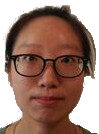
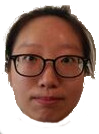
New user images

Changed region(s): [[0.0, 0.8358, 1.0, 1.0]]

diff --git a/js/facialPoints.js b/js/facialPoints.js
@@ -24,6 +24,9 @@ Motivate.prototype.createScene = function() {
 
     this.playing = false;
 
+    //Set camera
+    this.camera.position.set(0, 0, 75);
+
     //Delta vectors
     this.deltaVector = new THREE.Vector3();
     this.deltaPos = new THREE.Vector3();
@@ -39,7 +42,7 @@ Motivate.prototype.createScene = function() {
     this.currentPoint = new THREE.Vector3();
 
     //Sort data
-    var numFrames = 503, numPoints = 66, numDims = 3, point=0;
+    var numFrames = 331, numPoints = 66, numDims = 3, point=0;
     this.numFrames = numFrames;
     this.frames = [];
     var frame, i;
@@ -115,7 +118,6 @@ Motivate.prototype.createGUI = function() {
     var _this = this;
     this.guiControls = new function() {
         this.Point = 51;
-        this.Lines = false;
         this.FPS = 30;
     };
 
@@ -123,7 +125,6 @@ Motivate.prototype.createGUI = function() {
     var gui = new dat.GUI();
 
     gui.add(this.guiControls, 'Point', 0, 65).step(1);
-    gui.add(this.guiControls, 'Lines');
     gui.add(this.guiControls, 'FPS', 1, 50).step(1);
 };
 
@@ -136,11 +137,8 @@ Motivate.prototype.renderFrame = function() {
     var current, previous;
 
     if(this.currentFrame >= this.numFrames) {
-        this.calcOrigin(0);
-        this.previousOrigin.copy(this.originVector);
-        this.currentFrame = 1;
-        var videoElem = document.getElementById("videoPlayer");
-        videoElem.play();
+        this.reset();
+        return;
     }
 
     var frameData = this.frames[this.currentFrame];
@@ -177,44 +175,6 @@ Motivate.prototype.renderFrame = function() {
 
     this.previousOrigin.copy(this.originVector);
     ++this.currentFrame;
-
-    if(this.guiControls.Lines) {
-        this.lineGeoms[0].vertices[0].x = frameData[0];
-        this.lineGeoms[0].vertices[0].y = frameData[1];
-        this.lineGeoms[0].vertices[0].z = frameData[2];
-        linePoint = 16*3;
-        this.lineGeoms[0].vertices[1].x = frameData[linePoint];
-        this.lineGeoms[0].vertices[1].y = frameData[linePoint+1];
-        this.lineGeoms[0].vertices[1].z = frameData[linePoint+2];
-        this.lineGeoms[0].verticesNeedUpdate = true;
-
-        this.deltaVector.x = frameData[linePoint] - frameData[0];
-        this.deltaVector.y = frameData[linePoint+1] - frameData[1];
-        this.deltaVector.z = frameData[linePoint+2] - frameData[2];
-        this.deltaVector.multiplyScalar(0.5);
-        this.deltaVector.x += frameData[0];
-        this.deltaVector.y += frameData[1];
-        this.deltaVector.z += frameData[2];
-
-        linePoint = 28*3;
-        this.lineGeoms[1].vertices[0].x = frameData[linePoint];
-        this.lineGeoms[1].vertices[0].y = frameData[linePoint+1];
-        this.lineGeoms[1].vertices[0].z = frameData[linePoint+2];
-
-        this.lineGeoms[1].vertices[1].x = this.deltaVector.x;
-        this.lineGeoms[1].vertices[1].y = this.deltaVector.y;
-        this.lineGeoms[1].vertices[1].z = this.deltaVector.z;
-        this.lineGeoms[1].verticesNeedUpdate = true;
-
-        this.lineGeoms[2].vertices[0].x = this.deltaVector.x;
-        this.lineGeoms[2].vertices[0].y = this.deltaVector.y;
-        this.lineGeoms[2].vertices[0].z = this.deltaVector.z;
-
-        this.lineGeoms[2].vertices[1].x = this.deltaVector.x;
-        this.lineGeoms[2].vertices[1].y = this.deltaVector.y + 300;
-        this.lineGeoms[2].vertices[1].z = this.deltaVector.z;
-        this.lineGeoms[2].verticesNeedUpdate = true;
-    }
 
     //Eye lines
     for(i=0, eyePoint=36*3; i<EYE_POINTS; ++i) {
@@ -282,6 +242,17 @@ Motivate.prototype.update = function() {
     }
 
     BaseApp.prototype.update.call(this);
+};
+
+Motivate.prototype.reset = function() {
+    this.calcOrigin(0);
+    this.previousOrigin.copy(this.originVector);
+    this.currentFrame = 1;
+    var videoElem = document.getElementById("videoPlayer");
+    videoElem.pause();
+    videoElem.currentTime = 0;
+    this.playing = false;
+    $('#play').html('Play');
 };
 
 $(document).ready(function() {

diff --git a/facialPoints.html b/facialPoints.html
@@ -14,8 +14,8 @@
     <script type="text/javascript" src="js/MTLLoader.js"></script>
     <script type="text/javascript" src="js/OBJLoader.js"></script>
     <script type="text/javascript" src="js/baseAppFacial.js?v=0.2"></script>
-    <script type="text/javascript" src="js/script1_v1_Female.js"></script>
-    <script type="text/javascript" src="js/facialPoints.js"></script>
+    <script type="text/javascript" src="js/zoltanPoints2.js"></script>
+    <script type="text/javascript" src="js/facialPoints.js?v=0.2"></script>
 
     <link rel="stylesheet" href="css/bootstrap.min.css?v=0.1">
     <link rel="stylesheet" href="css/bootstrap-theme.min.css?v=0.1">
@@ -29,26 +29,6 @@
 
 <div id="control" class="displayInfo">
     <button id="play" type="button" class="btn btn-default">Play</button>
-</div>
-
-<div id="control2" class="displayInfo">
-    <button id="next" type="button" class="btn btn-default">Next</button>
-</div>
-
-<div id="info" class="displayInfo">
-    <p>Frame: <span id="frame">0</span></p>
-    <p>Point: <span id="point">37</span></p>
-    <p>X: <span id="xPoint">0</span></p>
-    <p>Y: <span id="yPoint">0</span></p>
-    <p>Z: <span id="zPoint">0</span></p>
-
-    <p>DeltaX: <span id="deltaX">0</span></p>
-    <p>DeltaY: <span id="deltaY">0</span></p>
-    <p>DeltaZ: <span id="deltaZ">0</span></p>
-
-    <p>DeltaOrig: <span id="deltaOrig">0</span></p>
-
-    <p>MouthY: <span id="mouthY">0</span></p>
 </div>
 
 <div id="videoPlayerContainer" class="displayInfo">

diff --git a/js/script2_v1.js b/js/script2_v1.js
@@ -79,7 +79,10 @@ Motivate.prototype.createScene = function() {
     this.faceTextures = [];
     this.faceTextures.push(textureLoader.load( "images/participant1.png" ));
     this.faceTextures.push(textureLoader.load( "images/participant4.png" ));
+    this.faceTextures.push(textureLoader.load( "images/participant5.png" ));
     this.faceTextures.push(textureLoader.load( "images/participant6.png" ));
+    this.faceTextures.push(textureLoader.load( "images/participant7.png" ));
+    this.faceTextures.push(textureLoader.load( "images/participant8.png" ));
 
     planeGeom = new THREE.PlaneBufferGeometry(70, 70);
     mat = new THREE.MeshLambertMaterial({ transparent: true, map: this.faceTextures[this.currentFace]});
@@ -171,7 +174,7 @@ Motivate.prototype.createGUI = function() {
 
     gui.add(this.guiControls, 'Rotate');
 
-    this.participants = ['Particpant1', 'Particpant4', 'Particpant6'];
+    this.participants = ['Particpant1', 'Particpant4', 'Particpant5', 'Particpant6', 'Particpant7', 'Particpant8'];
 
     var faces = gui.add(this.guiControls, 'Participant', this.participants);
     faces.onChange(function(value) {
